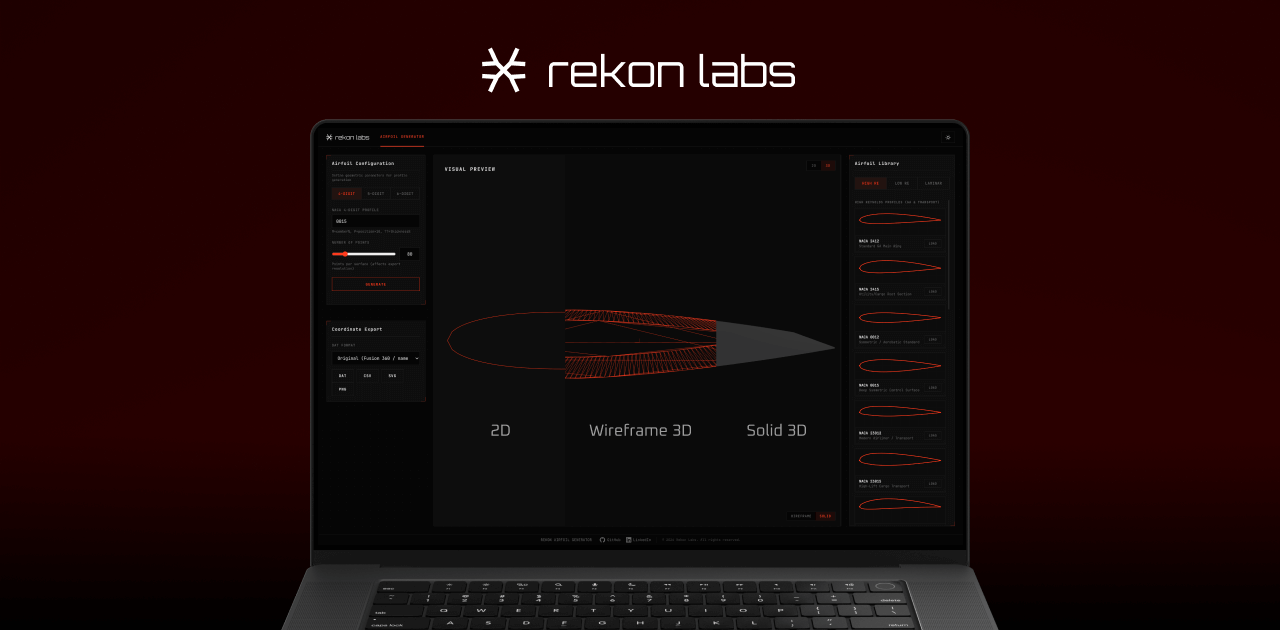
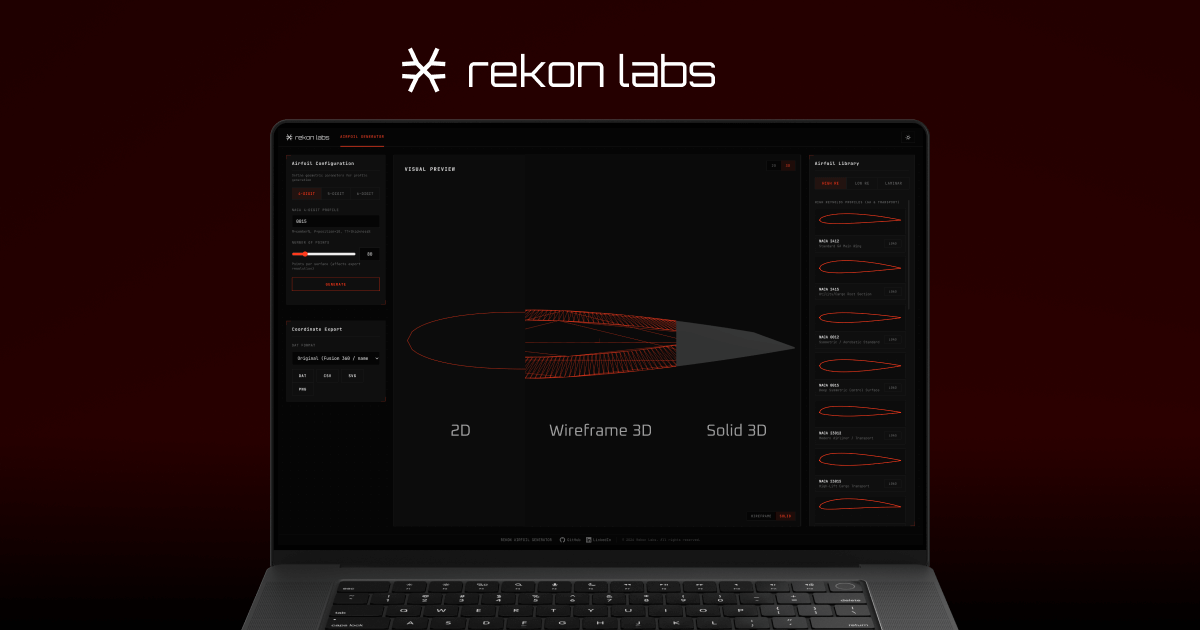
v1.0.4
title and og-img update

diff --git a/index.html b/index.html
@@ -17,7 +17,7 @@
   <!-- Open Graph / Facebook -->
   <meta property="og:type" content="website">
   <meta property="og:url" content="https://airfoilnaca.xyz">
-  <meta property="og:title" content="NACA Airfoil Generator - Professional Aerodynamic Design Tool">
+  <meta property="og:title" content="NACA Airfoil Generator - Professional Airfoil Design Tool">
   <meta property="og:description"
     content="Generate, visualize, and export high-fidelity NACA airfoil coordinates. Support for 4-digit, 5-digit, and complex 6-series profiles with 3D preview.">
   <meta property="og:image" content="https://airfoilnaca.xyz/assets/og-image.png">
